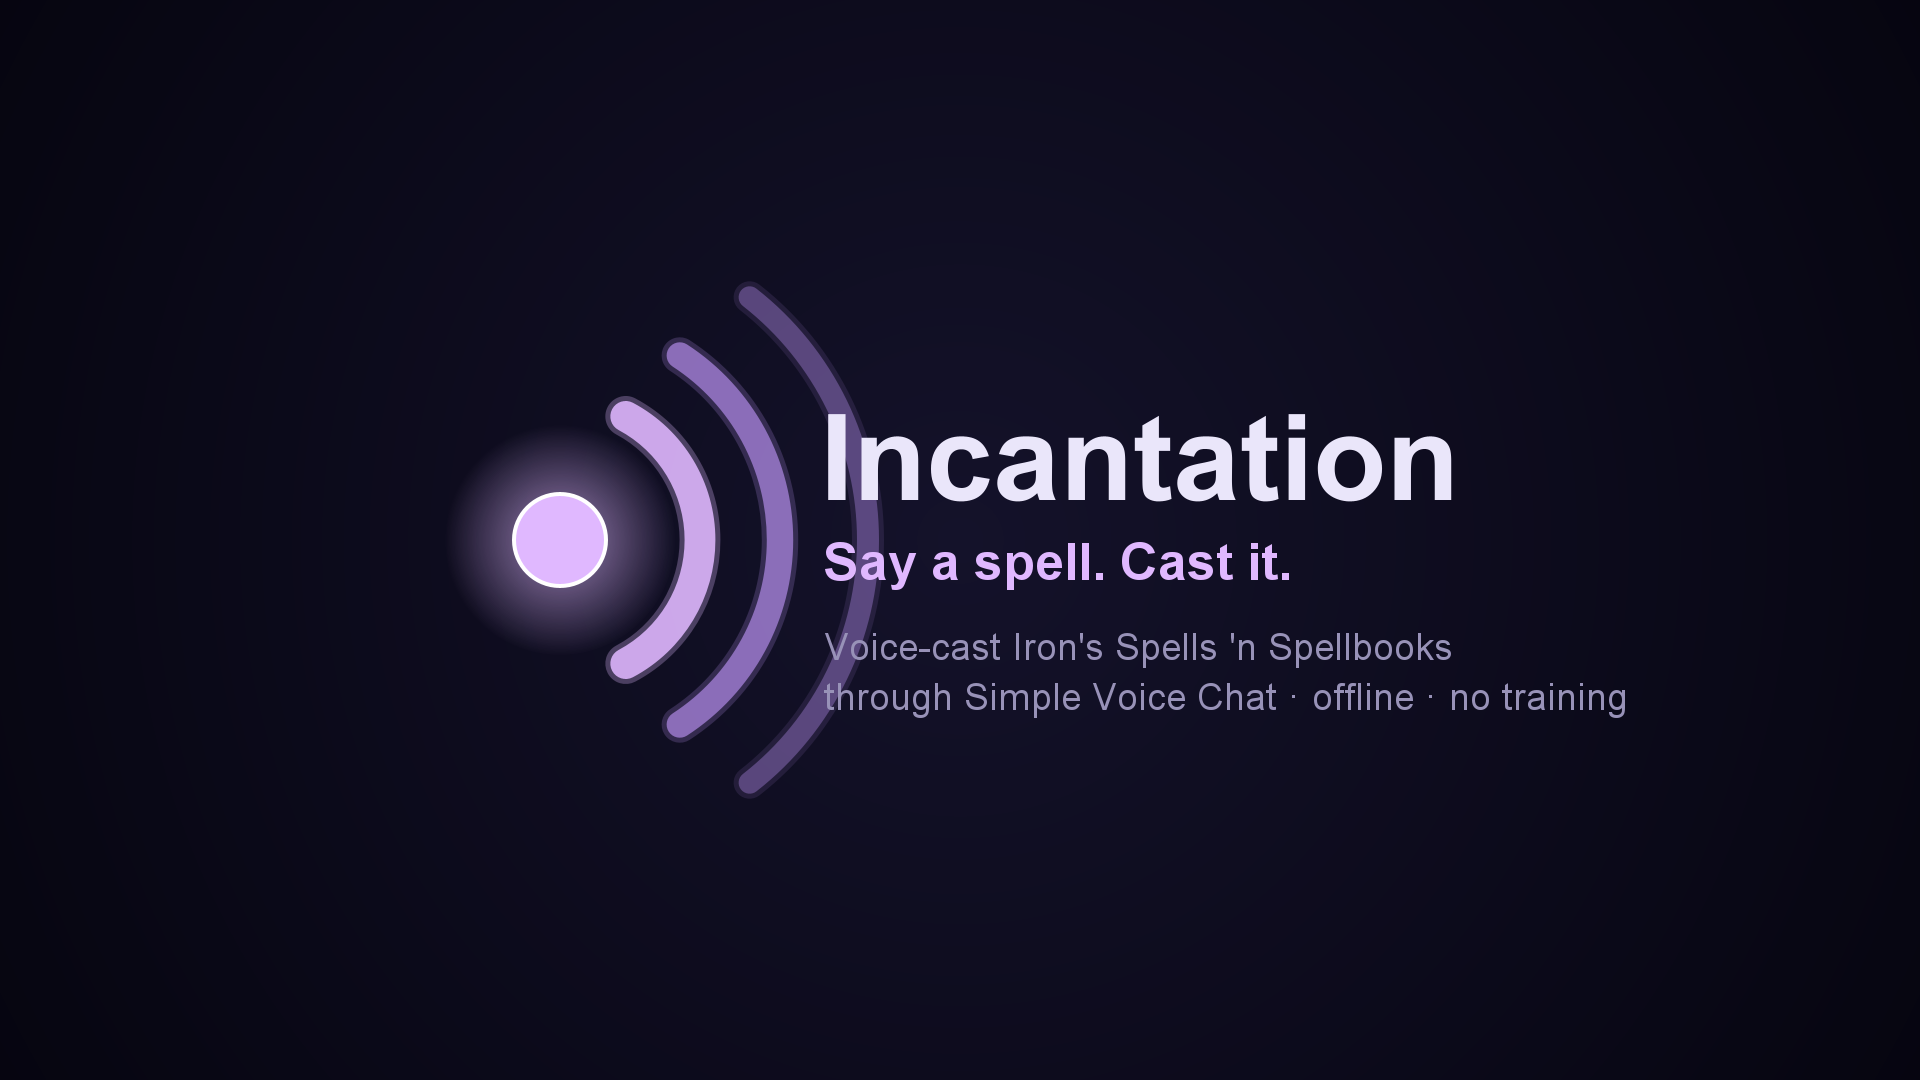
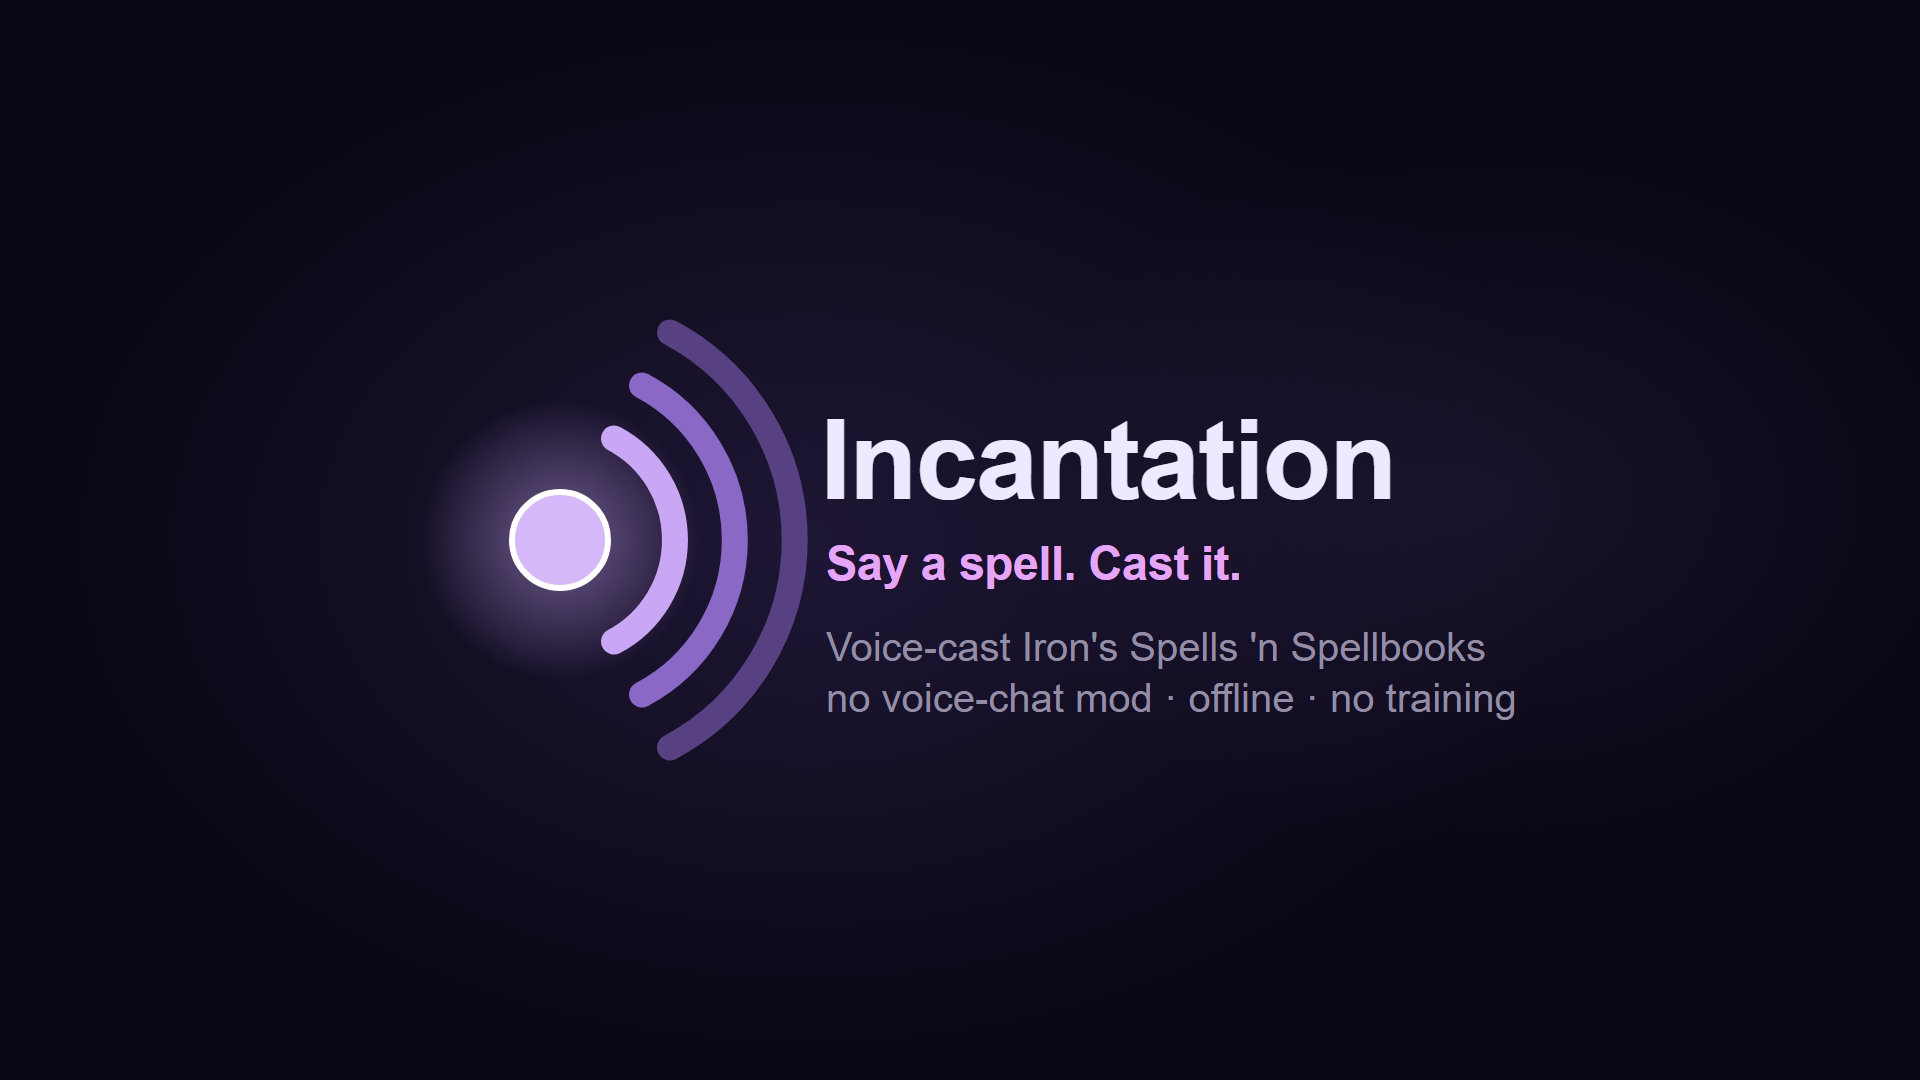
0.10.0: rebrand for the standalone model
Version bump is 0.10.0 rather than 0.9.6 on purpose -- dropping Simple Voice
Chat changes how every existing user's microphone works, which is not a patch.

Rebrands the gallery, which still sold the old model:

- 01-hero read "through Simple Voice Chat", the one thing that is no longer
  true. Now "no voice-chat mod - offline - no training".
- 02-features still listed "macros", a feature that has never existed in this
  codebase -- zero hits for macro/castSequence/recordSequence, same as when the
  audit first caught it in the text. Replaced with real ones.
- 03-owned promised background chatter "isn't in the grammar". The honest and
  more useful claim now is that the microphone isn't even open unless you are
  holding a spell focus.

Kept deliberately: "grammar narrows to what you can cast". That claim was false
on the SVC line and I removed it there, but standalone reintroduced narrowing
via phrasesFor(owned, floor) -- the running client rebuilds to 16 phrases when
armed. Same situation as the HUD audio meter: true again here, so it stays.

All eight images now have HTML sources under gallery/src, so the next time the
model changes the art can follow instead of quietly contradicting the text.

diff --git a/gallery/src/02-features.html b/gallery/src/02-features.html
@@ -1,0 +1,45 @@
+<meta charset="utf-8">
+<style>
+* { margin:0; padding:0; box-sizing:border-box; }
+html, body { width:1920px; height:1080px; overflow:hidden; }
+body { background:#0a0714; font-family:Arial,"Helvetica Neue",Helvetica,sans-serif;
+       -webkit-font-smoothing:antialiased; position:relative; }
+body::before { content:""; position:absolute; inset:0;
+  background:
+    radial-gradient(900px 620px at 46% 34%, rgba(90,68,150,.30), rgba(90,68,150,0) 70%),
+    radial-gradient(700px 520px at 84% 50%, rgba(120,90,190,.16), rgba(120,90,190,0) 70%); }
+.wrap { position:relative; width:1920px; height:1080px; }
+h1 { position:absolute; left:160px; top:108px; font-size:88px; font-weight:700;
+     color:#ede9fe; letter-spacing:-1px; }
+ul { position:absolute; left:172px; top:272px; list-style:none; }
+li { display:flex; align-items:center; height:110px; }
+.dot { width:19px; height:19px; border-radius:50%; background:#c4a3f0; flex:0 0 19px; }
+.txt { margin-left:32px; font-size:45px; color:#e6e5ef; letter-spacing:.2px; }
+svg { position:absolute; left:1470px; top:340px; }
+</style>
+<div class="wrap">
+  <h1>Features</h1>
+  <ul>
+    <li><span class="dot"></span><span class="txt">No voice-chat mod needed</span></li>
+    <li><span class="dot"></span><span class="txt">Speak any spell you have equipped</span></li>
+    <li><span class="dot"></span><span class="txt">Grammar narrows to what you can cast</span></li>
+    <li><span class="dot"></span><span class="txt">Imbued swords &amp; staves supported</span></li>
+    <li><span class="dot"></span><span class="txt">HUD chip, themes &amp; base palettes</span></li>
+    <li><span class="dot"></span><span class="txt">Aliases, loadouts &amp; voice commands</span></li>
+  </ul>
+  <svg width="400" height="400" viewBox="0 0 400 400">
+    <defs>
+      <radialGradient id="g">
+        <stop offset="0%"   stop-color="#d8b4fe" stop-opacity=".55"/>
+        <stop offset="100%" stop-color="#d8b4fe" stop-opacity="0"/>
+      </radialGradient>
+    </defs>
+    <circle cx="110" cy="200" r="95" fill="url(#g)"/>
+    <g fill="none" stroke-linecap="round">
+      <path d="M146.6 131.1 A78 78 0 0 1 146.6 268.9"  stroke="#c9a7f5" stroke-width="21"/>
+      <path d="M170.1 87.0 A128 128 0 0 1 170.1 313.0" stroke="#8a68c6" stroke-width="21"/>
+      <path d="M193.6 42.8 A178 178 0 0 1 193.6 357.2" stroke="#574183" stroke-width="21"/>
+    </g>
+    <circle cx="110" cy="200" r="34" fill="#d5b8f7" stroke="#ffffff" stroke-width="5"/>
+  </svg>
+</div>

diff --git a/gallery/src/01-hero.html b/gallery/src/01-hero.html
@@ -1,0 +1,39 @@
+<meta charset="utf-8">
+<style>
+* { margin:0; padding:0; box-sizing:border-box; }
+html, body { width:1920px; height:1080px; overflow:hidden; }
+body { background:#0a0714; font-family:Arial,"Helvetica Neue",Helvetica,sans-serif;
+       -webkit-font-smoothing:antialiased; position:relative; }
+body::before { content:""; position:absolute; inset:0;
+  background:
+    radial-gradient(1100px 760px at 42% 50%, rgba(88,66,148,.26), rgba(88,66,148,0) 70%),
+    radial-gradient(700px 520px at 78% 46%, rgba(120,90,190,.12), rgba(120,90,190,0) 70%); }
+.wrap { position:relative; width:1920px; height:1080px; }
+h1 { position:absolute; left:820px; top:396px; font-size:112px; font-weight:700;
+     color:#ede9fe; letter-spacing:-2px; }
+.tag { position:absolute; left:826px; top:536px; font-size:47px; font-weight:700;
+       color:#e5a6f7; letter-spacing:-.5px; }
+.sub { position:absolute; left:826px; top:622px; font-size:40px; line-height:1.28;
+       color:#938ea6; }
+svg { position:absolute; left:310px; top:290px; }
+</style>
+<div class="wrap">
+  <h1>Incantation</h1>
+  <div class="tag">Say a spell. Cast it.</div>
+  <div class="sub">Voice-cast Iron's Spells 'n Spellbooks<br>no voice-chat mod &middot; offline &middot; no training</div>
+  <svg width="620" height="500" viewBox="0 0 620 500">
+    <defs>
+      <radialGradient id="g">
+        <stop offset="0%"   stop-color="#c9a7f5" stop-opacity=".50"/>
+        <stop offset="100%" stop-color="#c9a7f5" stop-opacity="0"/>
+      </radialGradient>
+    </defs>
+    <circle cx="250" cy="250" r="140" fill="url(#g)"/>
+    <g fill="none" stroke-linecap="round">
+      <path d="M304 148.5 A115 115 0 0 1 304 351.5"  stroke="#c9a7f5" stroke-width="26"/>
+      <path d="M332  95.5 A175 175 0 0 1 332 404.5"  stroke="#8a68c6" stroke-width="26"/>
+      <path d="M360  42.5 A235 235 0 0 1 360 457.5"  stroke="#574183" stroke-width="26"/>
+    </g>
+    <circle cx="250" cy="250" r="48" fill="#d5b8f7" stroke="#ffffff" stroke-width="6"/>
+  </svg>
+</div>

diff --git a/gallery/src/03-owned.html b/gallery/src/03-owned.html
@@ -1,0 +1,36 @@
+<meta charset="utf-8">
+<style>
+* { margin:0; padding:0; box-sizing:border-box; }
+html, body { width:1920px; height:1080px; overflow:hidden; }
+body { background:#0a0714; font-family:Arial,"Helvetica Neue",Helvetica,sans-serif;
+       -webkit-font-smoothing:antialiased; position:relative; }
+body::before { content:""; position:absolute; inset:0;
+  background:
+    radial-gradient(900px 620px at 46% 34%, rgba(90,68,150,.30), rgba(90,68,150,0) 70%),
+    radial-gradient(700px 520px at 84% 50%, rgba(120,90,190,.16), rgba(120,90,190,0) 70%); }
+.wrap { position:relative; width:1920px; height:1080px; }
+h1 { position:absolute; left:160px; top:330px; font-size:68px; font-weight:700;
+     color:#d8b4fe; letter-spacing:-.5px; }
+p  { position:absolute; left:160px; top:448px; width:900px; font-size:46px;
+     line-height:1.55; color:#e8e8f0; }
+svg { position:absolute; left:1470px; top:340px; }
+</style>
+<div class="wrap">
+  <h1>The mic isn't always on</h1>
+  <p>It opens only while you're holding a spellbook, staff or imbued weapon &mdash; and only spells you actually have will fire.</p>
+  <svg width="400" height="400" viewBox="0 0 400 400">
+    <defs>
+      <radialGradient id="g">
+        <stop offset="0%"   stop-color="#d8b4fe" stop-opacity=".55"/>
+        <stop offset="100%" stop-color="#d8b4fe" stop-opacity="0"/>
+      </radialGradient>
+    </defs>
+    <circle cx="110" cy="200" r="95" fill="url(#g)"/>
+    <g fill="none" stroke-linecap="round">
+      <path d="M146.6 131.1 A78 78 0 0 1 146.6 268.9"  stroke="#c9a7f5" stroke-width="21"/>
+      <path d="M170.1 87.0 A128 128 0 0 1 170.1 313.0" stroke="#8a68c6" stroke-width="21"/>
+      <path d="M193.6 42.8 A178 178 0 0 1 193.6 357.2" stroke="#574183" stroke-width="21"/>
+    </g>
+    <circle cx="110" cy="200" r="34" fill="#d5b8f7" stroke="#ffffff" stroke-width="5"/>
+  </svg>
+</div>
